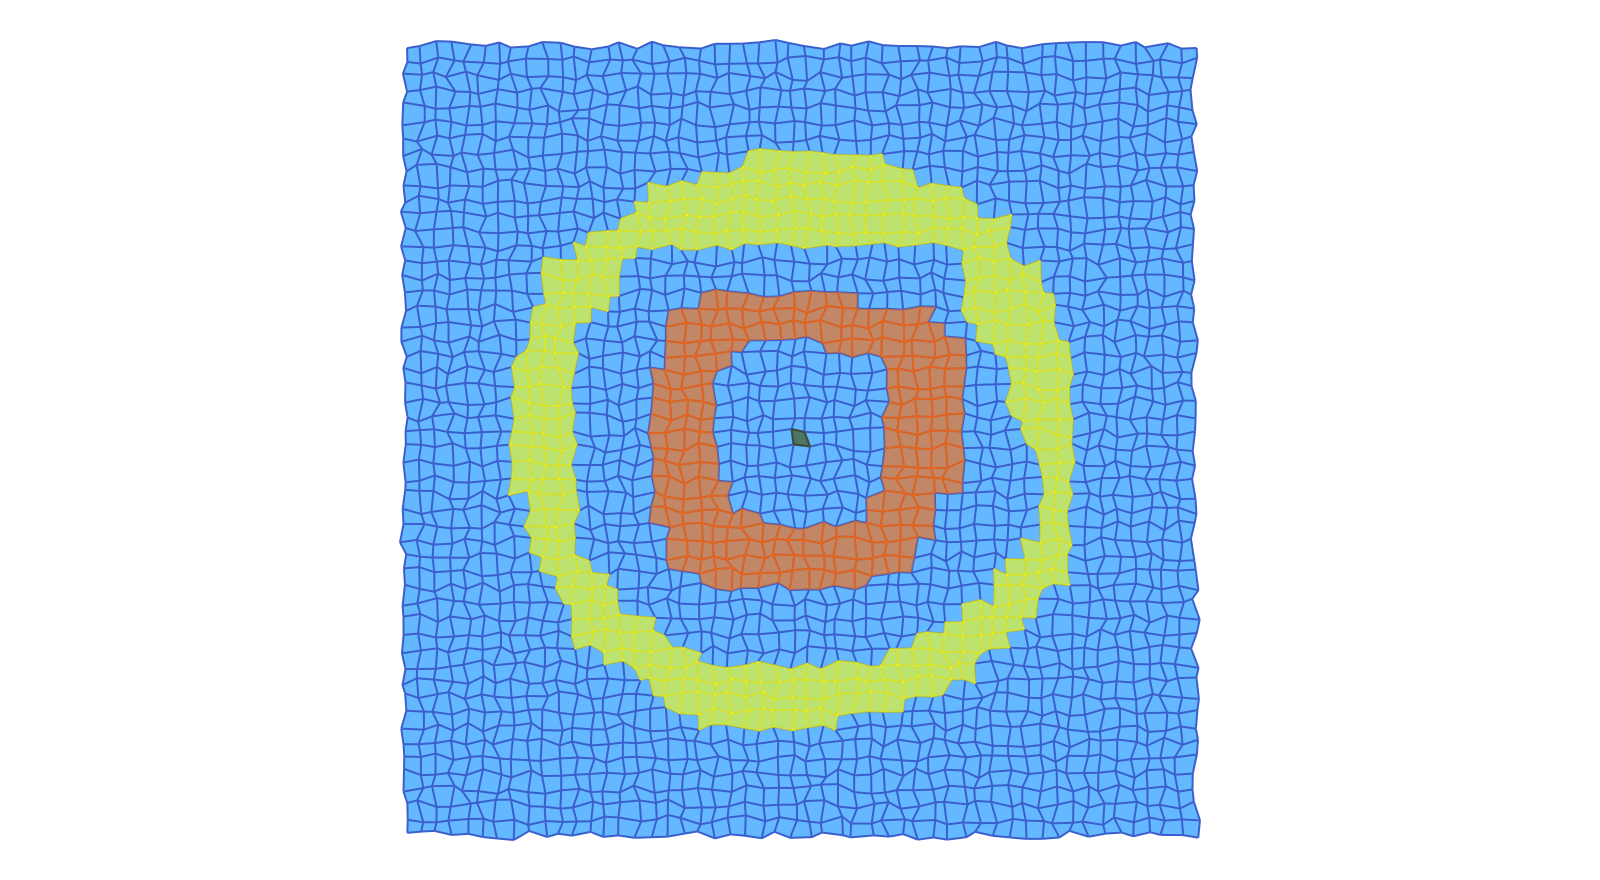
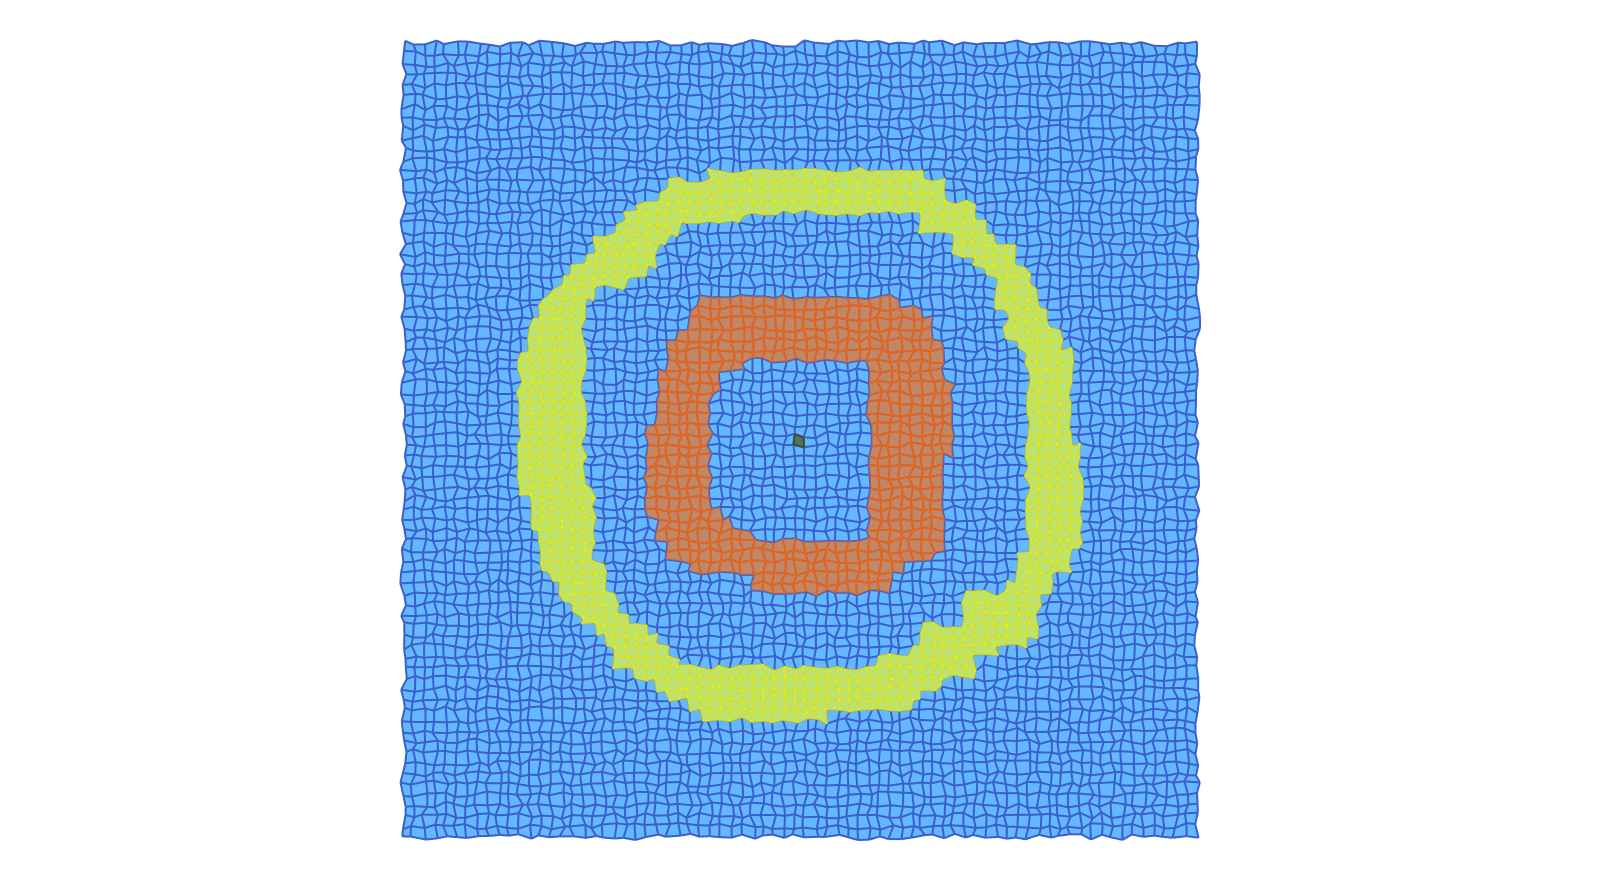
small change

Changed region(s): [[0.25, 0.0307, 0.75, 0.9818]]

diff --git a/docs/src/man/conley.md b/docs/src/man/conley.md
@@ -102,13 +102,13 @@ grid*, in which the coordinates of the vertices are randomly
 perturbed. This can be achieved with the following commands:
 
 ```julia
-n = 51
-lcR, coordsR = create_cubical_rectangle(n,n,p=2,randomize=0.33);
+nR = 75
+lcR, coordsR = create_cubical_rectangle(nR,nR,p=2,randomize=0.33);
 coordsRN = convert_planar_coordinates(coordsR,[-3.0,-3.0],[3.0,3.0]);
 mvfR = create_planar_mvf(lcR, coordsRN, circlevf);
 cmR = connection_matrix(lcR, mvfR);
 fnameR = "cubicalcirclesR.pdf"
-plot_planar_cubical_morse(lcR, coordsRN, fnameR, cmR.morse, pv=true)
+plot_planar_cubical_morse(lcR, coordsRN, fnameR, cmR.morse, pv=true, vfac=1.1, hfac=2.0)
 ```
 
 ![Morse sets of the planar circles vector field via randomized cubes](img/cubicalcirclesR.png)
